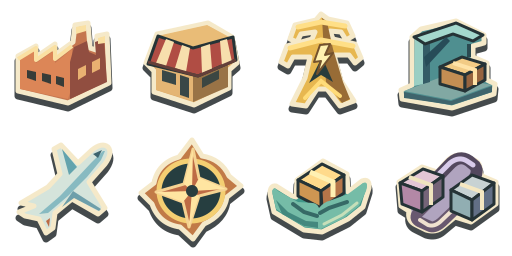
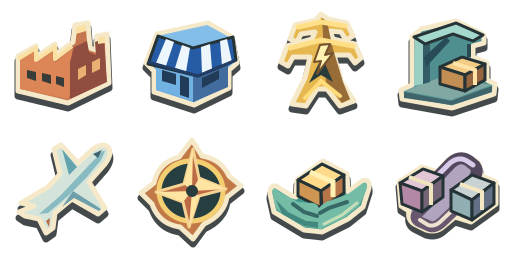
fix(map): distinguish shops with a blue and white awning
Keep the shop silhouette and county click area while separating it
from the copper producer and gold utility at play size.
Refresh the atlas, symbol key and artist provenance.

Part of PER-293

Changed region(s): [[0.2812, 0.0938, 0.4688, 0.4062]]

diff --git a/tests/unit/render/test_bevy_visual_assets.py b/tests/unit/render/test_bevy_visual_assets.py
@@ -134,7 +134,7 @@ _EXPECTED_MANIFEST_METADATA = (
         4,
         2,
         "linear",
[2 lines of base64/hex data omitted]
         "AGPL-3.0-or-later",
     ),
     (

diff --git a/design/bevy-assets/PROVENANCE.md b/design/bevy-assets/PROVENANCE.md
@@ -31,6 +31,10 @@ editable master is `sources/economic-map-atlas.svg`. The game uses its transpare
 export, `economic-map-atlas.png`. Each cell identifies the same kind of place or partner when an
 artist supplies a replacement.
 
+On 2026-11-16, Codex recolored the shop with a blue and white awning. Inkscape produced the
+updated atlas and the 24- and 30-pixel symbol key. The earlier Wayne period 2 screenshot
+shows the original warm-colored shop.
+
 ## OpenAI-generated illustrations
 
 OpenAI's built-in image-generation tool created the ten illustration masters on 2026-08-22. The

diff --git a/SETUP_GUIDE.md b/SETUP_GUIDE.md
@@ -350,7 +350,7 @@ mise run play -- --new --preset national-economy
 ```
 
 Choose a county, open **Map lens +**, then choose **Economy network**.
-An orange factory marks producers, a striped awning marks shops, and a
+An orange factory marks producers, a blue-and-white awning marks shops, and a
 gold pylon marks energy and utilities. Select a symbol or its row in
 **County workplaces** to see the sites it represents.
 Select a named site to open its circuit. The symbols share the county's
